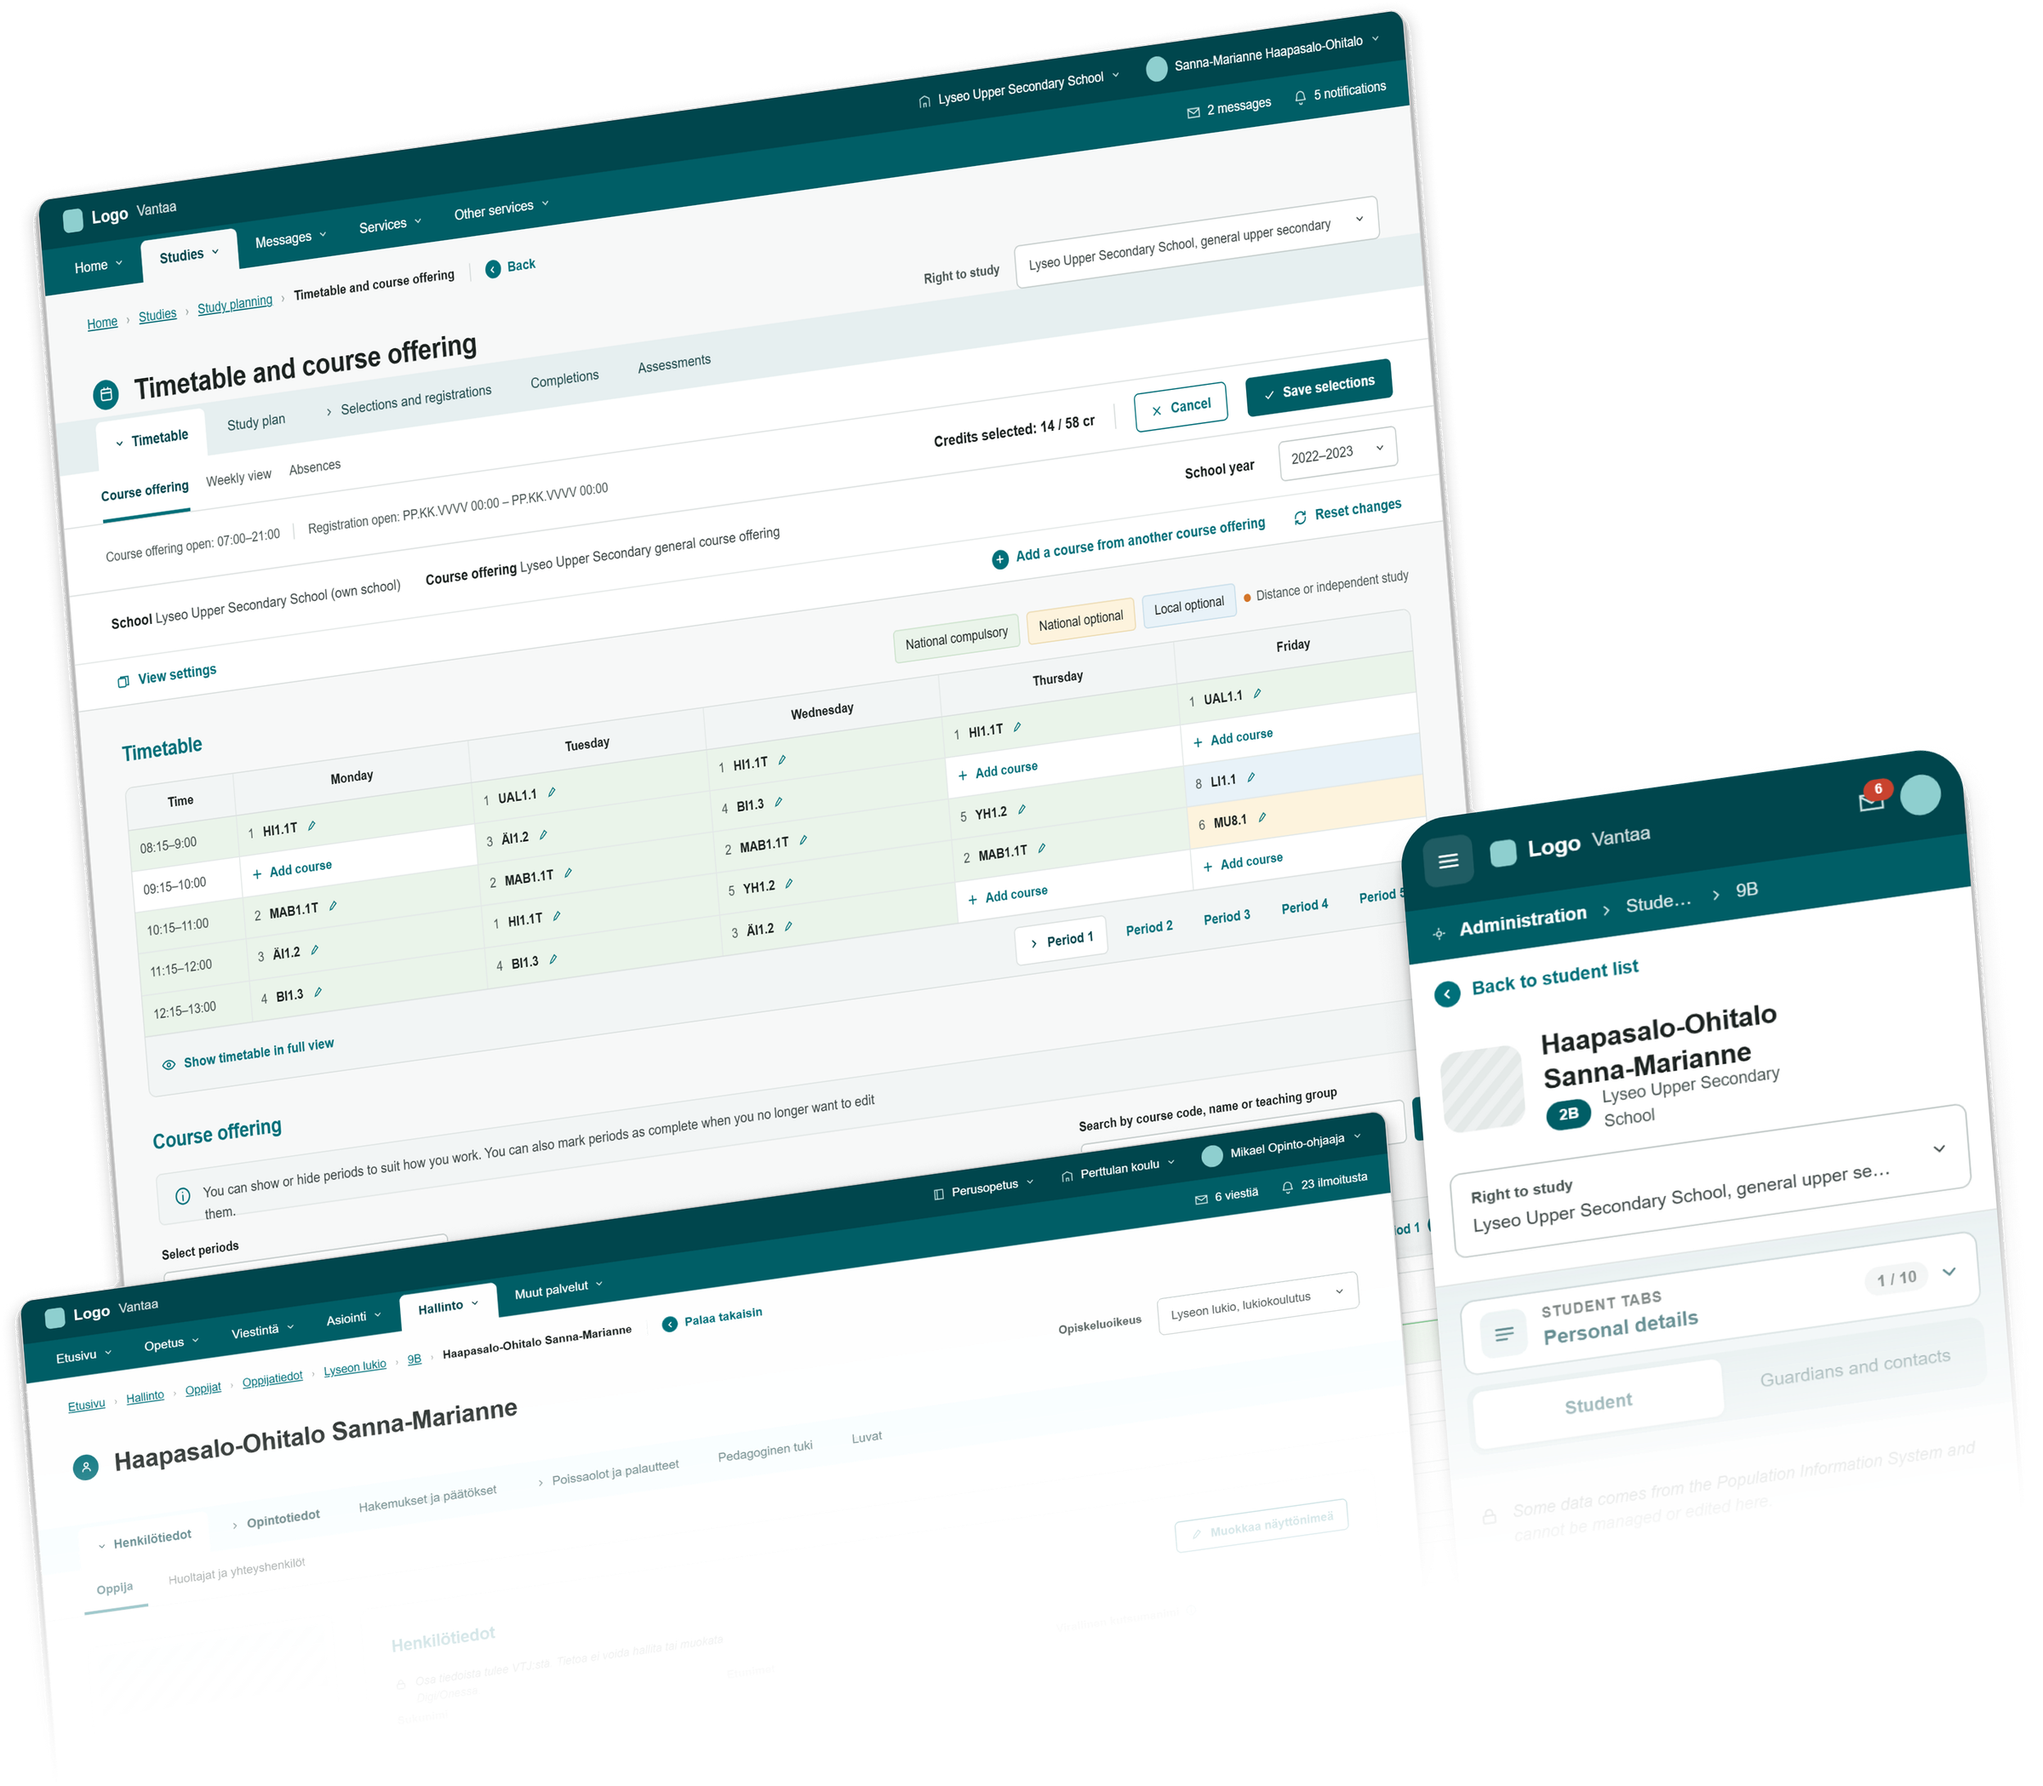
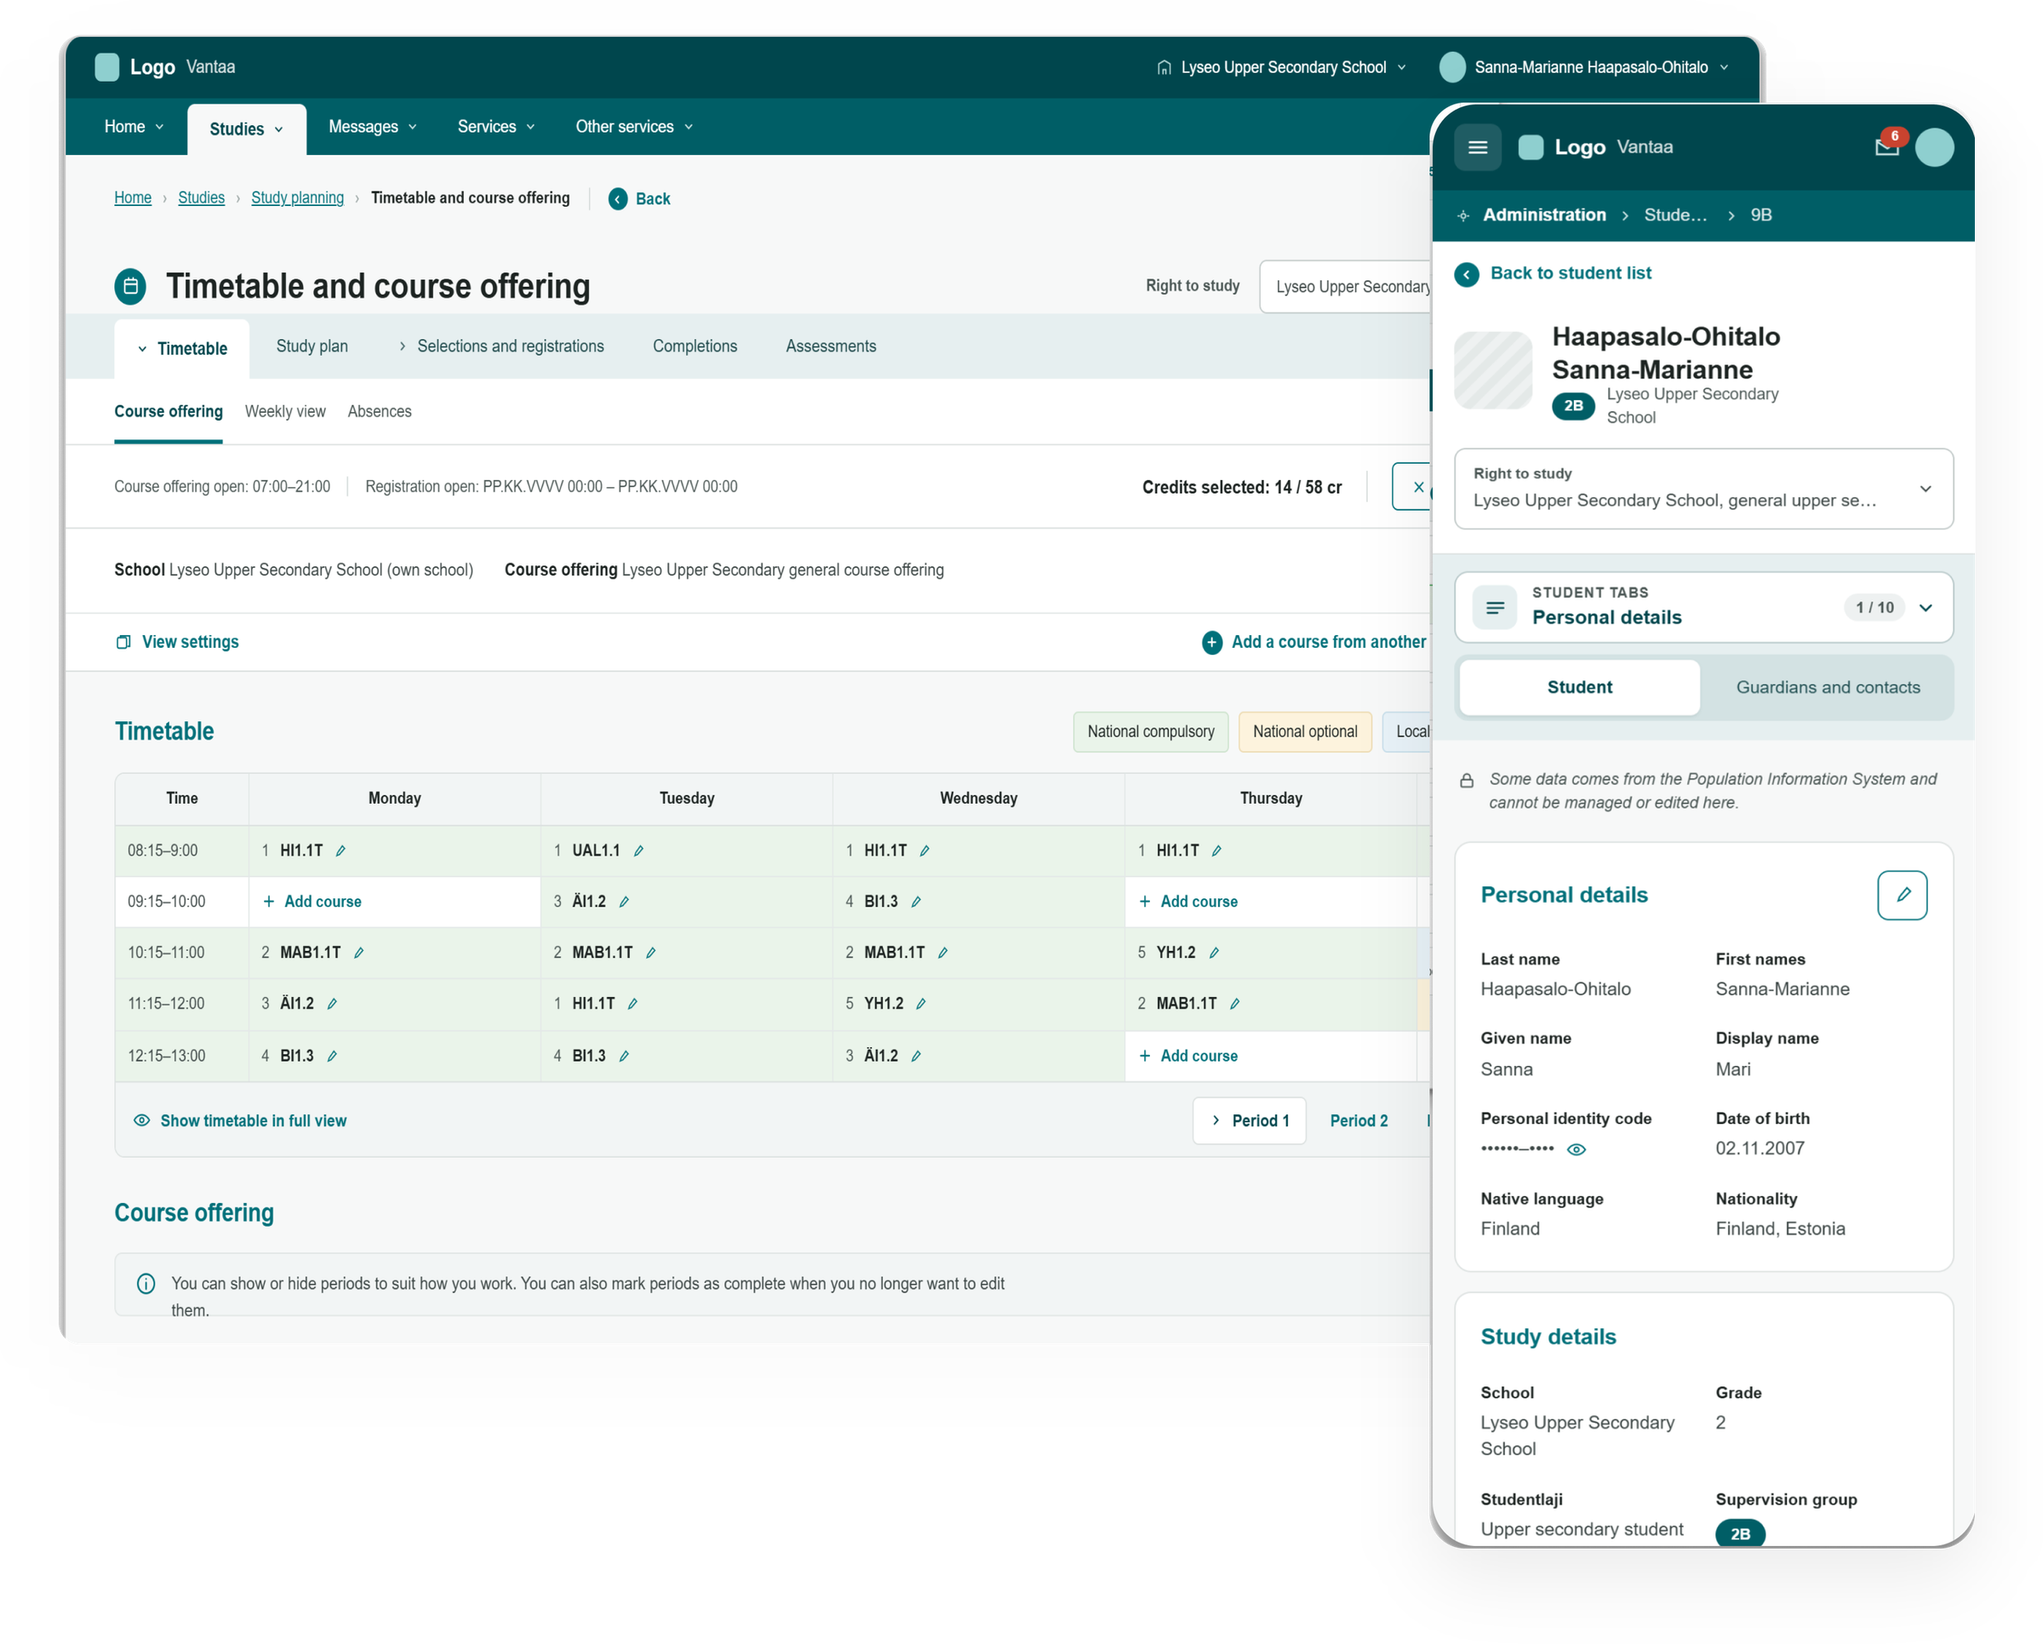
Education hero: flat desktop + mobile composition instead of the tilted bundle
Claude-Session: https://claude.ai/code/session_015M7xwsL7YAwHherkf6d5xQ

diff --git a/portfolio-homepage/src/data/case-studies/education-platform.ts b/portfolio-homepage/src/data/case-studies/education-platform.ts
@@ -236,7 +236,7 @@ export const educationPlatform: CaseStudy = {
         ],
       },
     ],
-    heroImage: { src: "/case/edu-hero-bundle.png", alt: "Three screens of the platform: the timetable and course offering, a student record in the administration service, and the same record on a mobile device", caption: "", width: 2400, height: 2098 },
+    heroImage: { src: "/case/edu-hero-bundle.png", alt: "Two screens of the platform: the timetable and course offering on desktop, and a student record in the administration service on a mobile device", caption: "", width: 2400, height: 1931 },
     heroBundle: true,
     tldr: [
       "Seven municipalities needed one system to replace the outdated tools used in basic and upper secondary education. Over three years I grew from UX & Product Designer to **Lead Designer**, and made sure a platform built by several teams and vendors looked and worked as one product.",

diff --git a/portfolio-homepage/src/data/case-studies/fi/education-platform.ts b/portfolio-homepage/src/data/case-studies/fi/education-platform.ts
@@ -195,7 +195,7 @@ export const educationPlatformFi: CaseStudy = {
         ],
       },
     ],
-    heroImage: { src: "/case/edu-hero-bundle.png", alt: "Kolme alustan näkymää: lukujärjestys ja kurssitarjotin, oppilaan tiedot hallinnon palvelussa sekä samat tiedot mobiililaitteella", caption: "", width: 2400, height: 2098 },
+    heroImage: { src: "/case/edu-hero-bundle.png", alt: "Kaksi alustan näkymää: lukujärjestys ja kurssitarjotin tietokoneella sekä oppilaan tiedot hallinnon palvelussa mobiililaitteella", caption: "", width: 2400, height: 1931 },
     heroBundle: true,
     tldr: [
       "Seitsemän kuntaa tarvitsi yhden järjestelmän perusopetuksen ja lukion vanhentuneiden työkalujen tilalle. Kolmen vuoden aikana kasvoin UX- ja tuotesuunnittelijasta **Lead Designeriksi** ja pidin huolen siitä, että usean tiimin ja toimittajan rakentama alusta näyttää ja toimii yhtenä tuotteena.",
